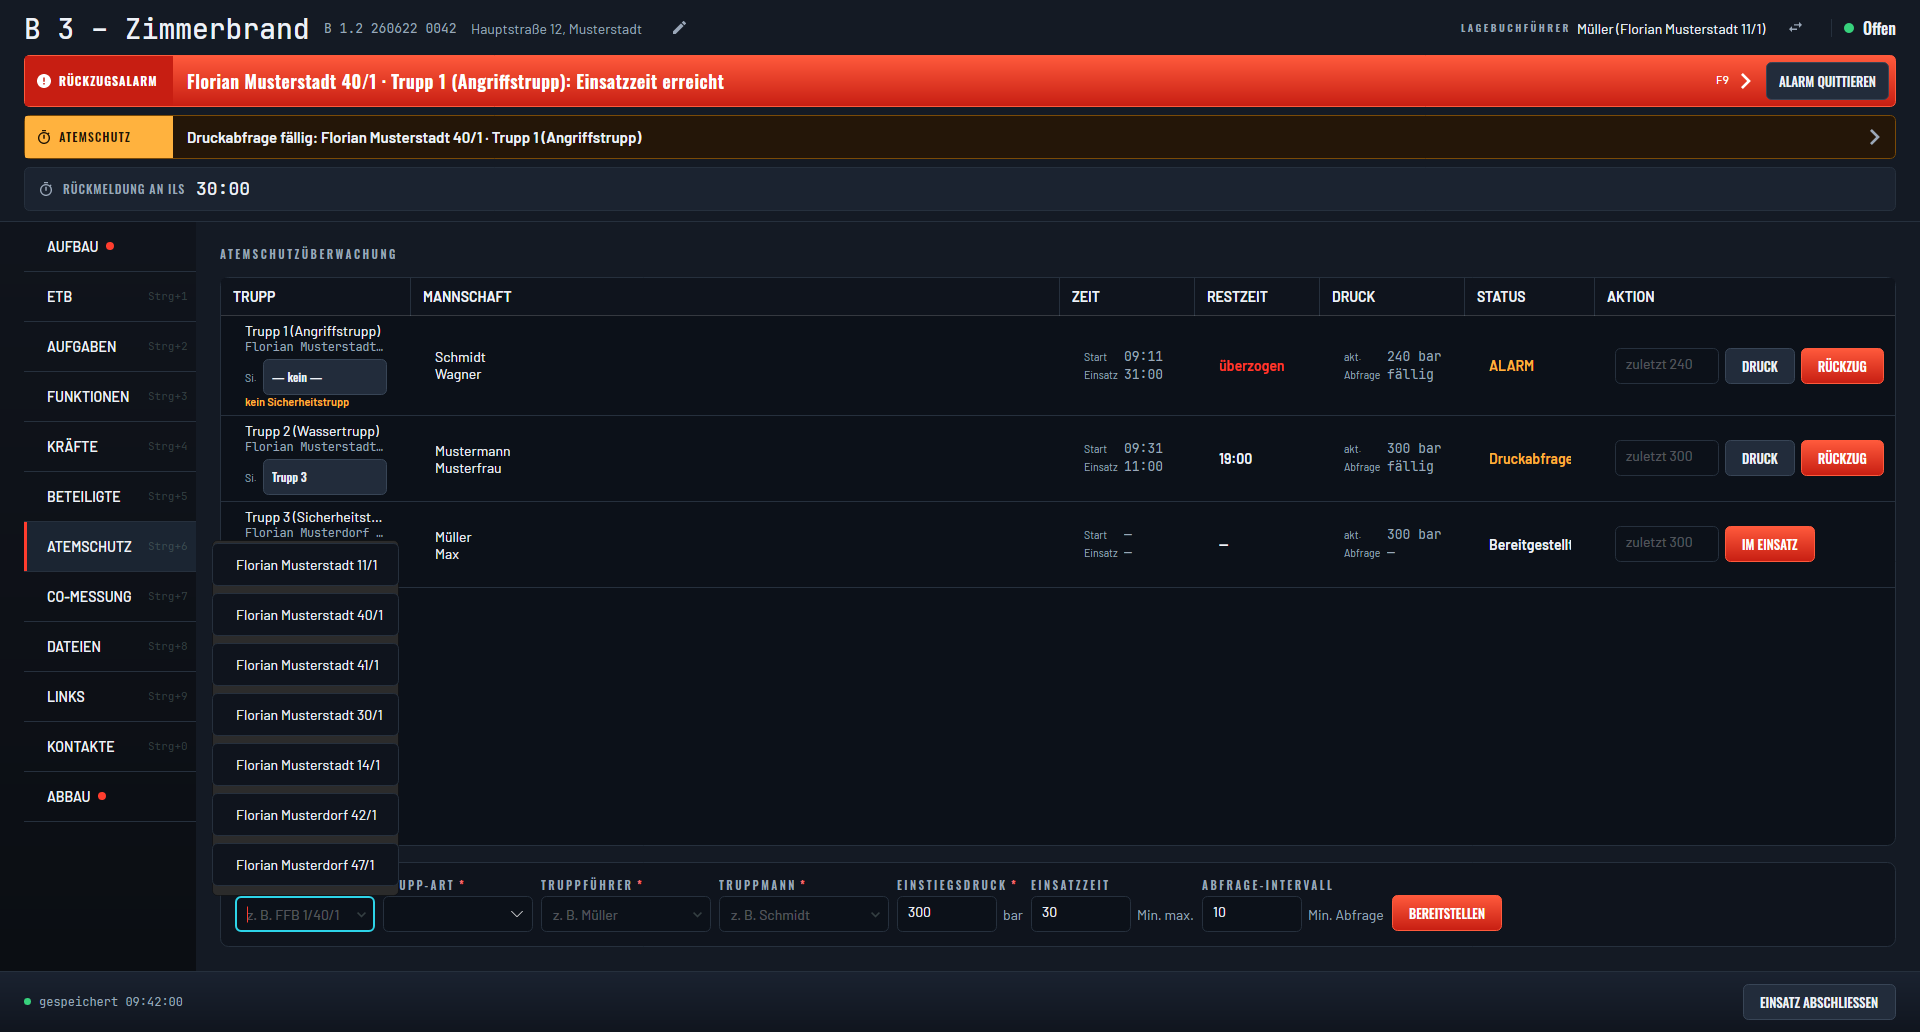
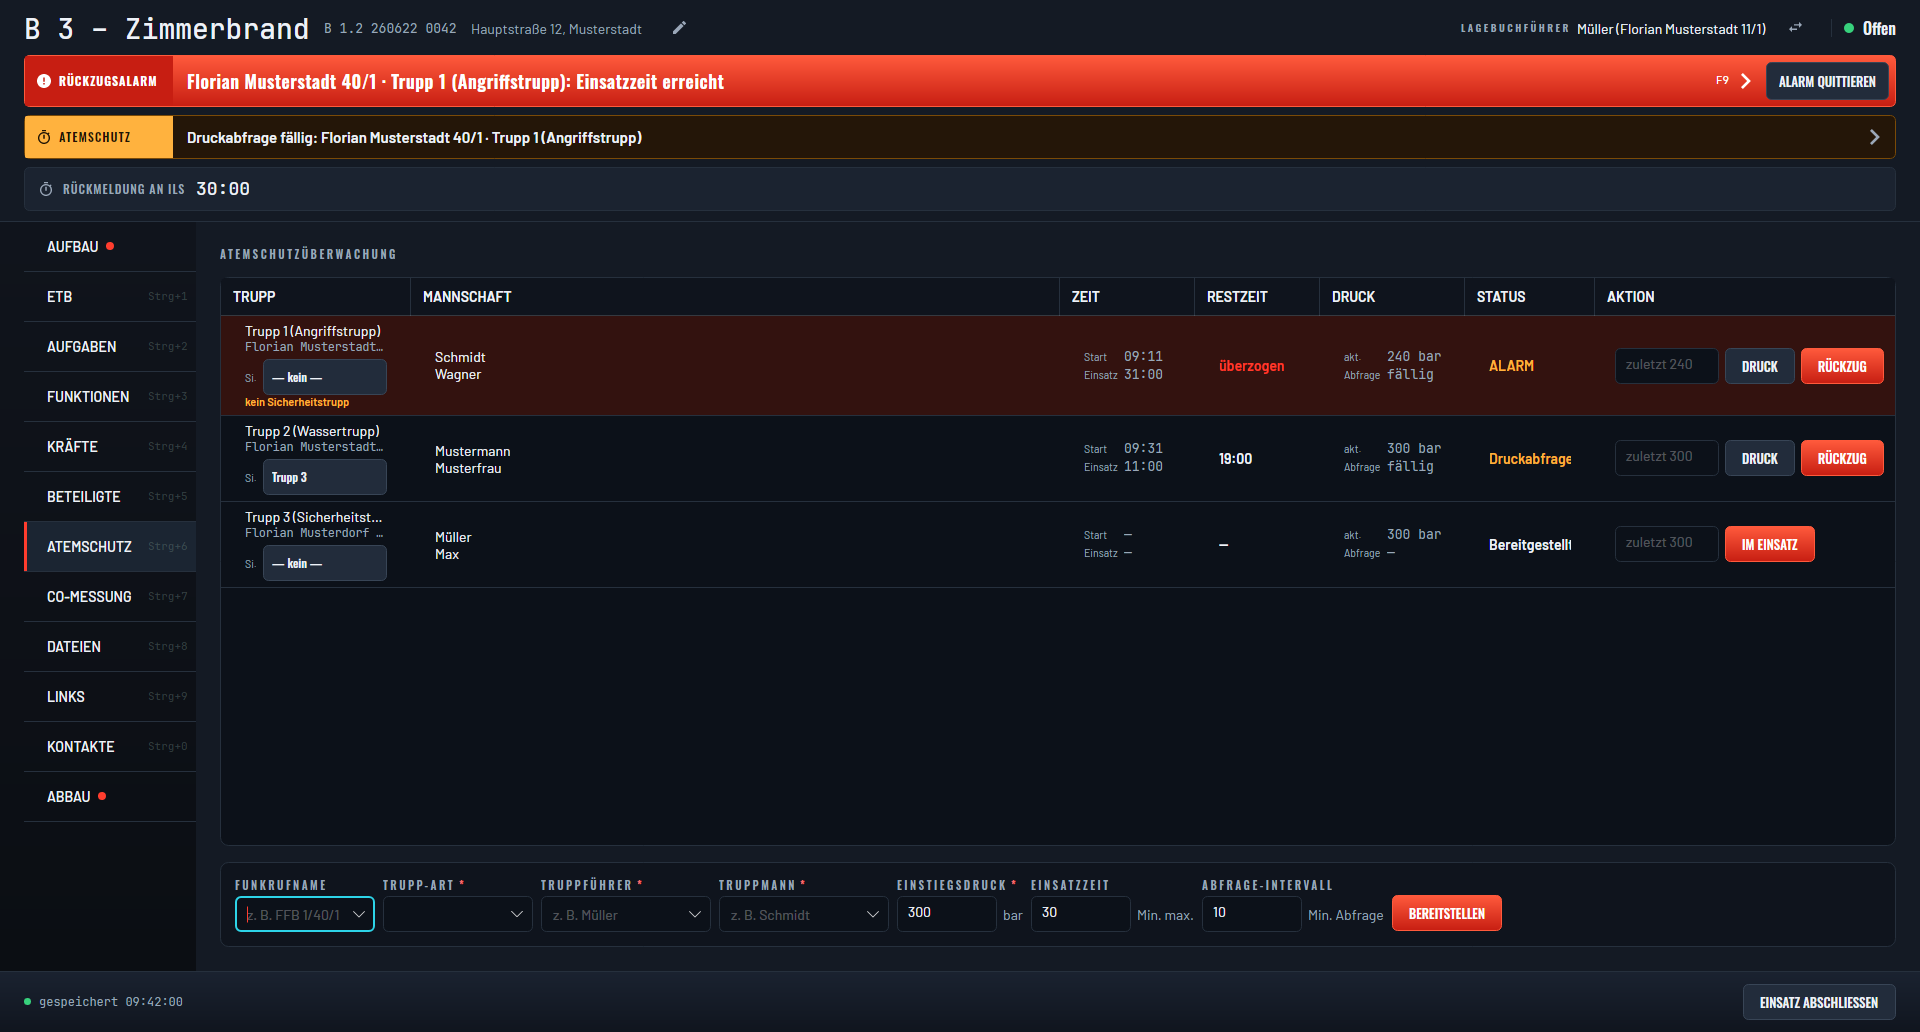
chore: prepare release 0.9.0
Fold the 39 changelog.d fragments into the 0.9.0 section with a summary
and link references, mark v0.9 released in ROADMAP (recording #598/#599
as declined and #384 as carried over to v0.11), and re-render the
Atemschutz screenshot and the demo GIF, which predated the alarm row
colouring (#669) and the closed suggestion list (#681).

The sync protocol stays at 7: no SyncCommand, IncidentSnapshot or
/masterdata wire change since v0.8.1.

Changed region(s): [[0.0938, 0.2791, 1.0, 0.4031], [0.0938, 0.5271, 0.2188, 0.8682]]

diff --git a/CHANGELOG.md b/CHANGELOG.md
@@ -16,6 +16,72 @@ cut — see [CONTRIBUTING.md](CONTRIBUTING.md). For the commits themselves, see 
 
 <!-- towncrier release notes start -->
 
+## [0.9.0] - 2026-10-20
+
+Security and trust. Attachments now stay inside their limits at every step: Android opens and
+shares only checked copies in the app's private temp folder, refuses an oversized pick or
+Stammdaten import while it is being copied, and a joined device deletes the files it pulled
+from the host when it leaves. A crash leaves a small report without personal data that the
+Startseite offers on the next start, and failures in sharing, export and the Dateien tab now
+say in German what went wrong. CI restores every dependency against pinned hashes. Alongside
+that come the findings of the latest Übung: Atemschutz buttons that ignore a double-click, a
+Rückzugsalarm that shows it was acknowledged, a due Aufgabe that keeps reminding, Stammdaten
+and module lists that no longer freeze on long rosters, and a command bar that fits a phone
+in landscape. The sync protocol is unchanged at 7, so 0.9.0 and 0.8.x devices share an
+Einsatz.
+
+### Added
+
+- [#631](https://github.com/CodeForFire/lagebuch/pull/631) - Über gains a "Ton testen" button that plays the Rückzugsalarm once and says plainly when this device cannot play any sound, and the Linux package now depends on alsa-utils instead of only recommending it (#603).
+- [#635](https://github.com/CodeForFire/lagebuch/pull/635) - A crash now leaves a small report holding only the app version, time, OS and each exception's type and stack trace, never its message, and the next start points to it on the Startseite (#300).
+
+### Changed
+
+- [#606](https://github.com/CodeForFire/lagebuch/pull/606) - The incident file writer was restructured to clear a static-analysis finding, with no change to the saved file.
+- [#608](https://github.com/CodeForFire/lagebuch/pull/608) - The 25 MB attachment limit and its error message are now defined once, so a file over the limit reads the same whether it was added from disk or over the sync connection (#343).
+- [#610](https://github.com/CodeForFire/lagebuch/pull/610) - The CO-Messprotokoll editor records the Schlüssel as Vorhanden, Keiner or Unbekannt, so a Wohnung marked by mistake can be set back to unknown; the PDF and the incident file are unchanged.
+- [#628](https://github.com/CodeForFire/lagebuch/pull/628) - Stopping sharing now asks first, because it disconnects every joined device and the ✕ that triggers it is easy to hit by mistake (#604).
+- [#661](https://github.com/CodeForFire/lagebuch/pull/661) - Atemschutz: after ALARM QUITTIEREN the Rückzugsalarm banner now shows that the alarm is acknowledged — the button turns into a disabled "QUITTIERT" and the glow goes — until another Trupp trips the alarm again (#654).
+- [#666](https://github.com/CodeForFire/lagebuch/pull/666) - Sharing and PDF export failures now say in German what went wrong and what to do — port in use, no network, no write access, file still open, disk full — instead of showing the raw exception text, and the status line wraps so the reason is readable on a tablet without hover (#655).
+- [#667](https://github.com/CodeForFire/lagebuch/pull/667) - Esc or ABBRECHEN in the CO-Messprotokoll reading editor and in the Einsatzdaten dialog now asks "Änderungen verwerfen?" before throwing away typed input, with focus on ABBRECHEN, while an untouched editor still closes straight away (#652).
+- [#675](https://github.com/CodeForFire/lagebuch/pull/675) - An alarming Atemschutz Trupp now colours its whole grid row, and on a phone its whole card, in the signal hue, including while it is selected, instead of only its RESTZEIT and STATUS text (#669).
+- [#676](https://github.com/CodeForFire/lagebuch/pull/676) - A due Aufgabe now repeats its cue every minute until it is ERLEDIGT or put off with +5 MIN, instead of sounding once and never again, and several overdue Aufgaben share one cue (#659).
+- [#679](https://github.com/CodeForFire/lagebuch/pull/679) - The task dialog now says Aufgabe like the rest of the app, and the Atemschutz short labels Si., akt. and Abfrage and the Rückzugsdruck setting explain themselves in tooltips (#605).
+- [#681](https://github.com/CodeForFire/lagebuch/pull/681) - Suggestion fields such as the ETB's VON now look and open like the dropdowns in KRÄFTE: switching to ETB, FUNKTIONEN or ATEMSCHUTZ no longer drops a list over the screen, which opens on a click, on typing or with the down arrow instead.
+- [#687](https://github.com/CodeForFire/lagebuch/pull/687) - The Stammdaten editor builds only the Fahrzeuge and Personal rows on screen, so a long roster opens without a pause, while Tab, Shift+Tab and + HINZUFÜGEN still reach every row.
+
+### Fixed
+
+- [#609](https://github.com/CodeForFire/lagebuch/pull/609) - On macOS and Linux, a voice alarm whose audio player hangs is now stopped after its time runs out instead of holding a thread until the app exits (#296).
+- [#622](https://github.com/CodeForFire/lagebuch/pull/622) - The Bericht's Gesamtstärke now counts Zugführer separately, in the same Zugführer/Führungskraft/Mannschaft/Gesamt notation as each unit's row and the Kräfte view, instead of leaving them out and adding them to Mannschaft (#621).
+- [#624](https://github.com/CodeForFire/lagebuch/pull/624) - Atemschutz: a double-click on RÜCKZUG no longer also triggers ABGENOMMEN, which used to end the Trupp's monitoring in the same gesture (#601).
+- [#632](https://github.com/CodeForFire/lagebuch/pull/632) - Atemschutz: a double-click on IM EINSATZ no longer also records an empty Druck or calls RÜCKZUG, because every Atemschutz action button now ignores the second press of a double-click or double-tap (#630).
+- [#633](https://github.com/CodeForFire/lagebuch/pull/633) - Failures in the Dateien tab now say in German what failed before the cause, and a joined device that sends an unknown id gets one fixed German reason back instead of the host's exception text (#602).
+- [#638](https://github.com/CodeForFire/lagebuch/pull/638) - On Android, the Rückzugsalarm, Druckabfrage, Leitstelle reminder and "Aufgabe fällig" now speak the same voice cues as the desktop on the alarm volume, one after another, instead of staying silent, and "Ton testen" reports whether a cue actually played (#637).
+- [#639](https://github.com/CodeForFire/lagebuch/pull/639) - On Android the crash notice on the Startseite now offers the report through the share sheet (TEILEN) instead of naming a path in the app's own storage that no file manager can reach (#636).
+- [#649](https://github.com/CodeForFire/lagebuch/pull/649) - The command bar no longer runs off the right edge between 640 and 1017 dp, so NEUER EINSATZ and ÜBER can be reached on a phone in landscape, a tablet in portrait and a narrow window: the bar now drops its descriptor first and folds into MEHR below 880 dp (#648).
+- [#660](https://github.com/CodeForFire/lagebuch/pull/660) - ERLEDIGT in the "Aufgabe fällig" bar now offers the same undo notice as ticking the task off in the grid, so completing the wrong task by a reflex click can be taken back (#653).
+- [#662](https://github.com/CodeForFire/lagebuch/pull/662) - Kräfte: closing the Stärke-correction flyout without ÜBERNEHMEN now puts the recorded Stärke back into the row, instead of leaving typed values on screen that the header total and the Einsatz never had (#651).
+- [#663](https://github.com/CodeForFire/lagebuch/pull/663) - Führung & Funktionen: correcting a picked name now replaces the phone and Funkrufname the Stammdaten filled in for the previous person, or clears them if the new name matches nobody, while values typed by hand are kept (#656).
+- [#664](https://github.com/CodeForFire/lagebuch/pull/664) - Stammdaten: a personnel row with a Vorname, phone or other field but no Nachname now blocks SPEICHERN and is named in the banner ("Person ohne Nachname: Zeile 4"), instead of being dropped without a word on save (#650).
+- [#671](https://github.com/CodeForFire/lagebuch/pull/671) - A failed attempt to share an incident in the network, for example because another window already holds the port, no longer leaves a half-started host attached to the incident, so a later successful share counts every change once (#665).
+- [#672](https://github.com/CodeForFire/lagebuch/pull/672) - On a phone, the card of a Funktion that is still running no longer shows "BIS —", so it no longer reads as ended (#668).
+- [#673](https://github.com/CodeForFire/lagebuch/pull/673) - A timer typed for an Aufgabe now survives a change of Dringlichkeit, and the next Aufgabe starts from the Dringlichkeit default again instead of silently reusing it (#658).
+- [#674](https://github.com/CodeForFire/lagebuch/pull/674) - Screen readers now hear each CO-Messprotokoll unit tile by its unit and state and each Checkliste tab with whether it is vollständig or unvollständig, and the remove confirm names what it removes ("Kraft entfernen?", "Beteiligten entfernen?", "Datei entfernen?") instead of "Bestätigen" (#670).
+- [#677](https://github.com/CodeForFire/lagebuch/pull/677) - The Stammdaten editor now shows every duplicate Funkrufname in its banner and says why IMPORTIEREN cannot run while changes are unsaved, instead of leaving the buttons grey without a reason (#657).
+- [#678](https://github.com/CodeForFire/lagebuch/pull/678) - The Kräfte view now spells out ZF, GF and AGT and the Zugführer/Gruppenführer/Mannschaft/Gesamt notation in tooltips, names each Stärke field for screen readers, and labels GF as Gruppenführer instead of Führungskräfte in the Stärke correction (#605).
+- [#684](https://github.com/CodeForFire/lagebuch/pull/684) - Clearing the selected Fahrzeug in Kräfte now also empties the Wache, Funkrufname and Stärke it had filled in, instead of leaving the old vehicle's values behind.
+- [#686](https://github.com/CodeForFire/lagebuch/pull/686) - Leaving a long Stammdaten category such as Fahrzeuge or Personal no longer freezes the editor for a second or more.
+- [#688](https://github.com/CodeForFire/lagebuch/pull/688) - Leaving a module that holds many entries — Beteiligte, Dateien or Kontakte on the desktop, or any card list in the phone layout — no longer freezes the app for seconds, and every module switch is about 100 ms faster (#685).
+
+### Security
+
+- [#607](https://github.com/CodeForFire/lagebuch/pull/607) - CI now restores NuGet packages against committed lock files with content hashes and installs its Python tooling with pinned hashes, so a tampered or substituted dependency fails the build.
+- [#611](https://github.com/CodeForFire/lagebuch/pull/611) - On Android, ÖFFNEN and sharing now refuse an attachment copy that is not an allow-listed regular file inside the app's private temp folder, opened copies older than a day are removed at startup, and on desktop Linux and macOS that temp folder is now readable by its owner only (#289).
+- [#625](https://github.com/CodeForFire/lagebuch/pull/625) - A joined device now deletes the attachments it pulled from the host when it leaves the incident, and clears any a crashed run left behind on the next start (#382).
+- [#627](https://github.com/CodeForFire/lagebuch/pull/627) - On Android, a picked attachment over the 25 MB limit and a Stammdaten import over the new 5 MB limit are now refused while they are being copied rather than after they are on the device, and the app no longer keeps a copy of every file ever attached (#407).
+
+
 ## [0.8.1] - 2026-10-07
 
 A patch release for Windows: the 0.8.0 installer was a 32-bit package and installed into
@@ -484,7 +550,8 @@ First release (Windows + Linux prerelease).
 - AutoCompleteBox border matched to app inputs (#41)
 - ILS countdown made the visual focus of the reminder bar (#44)
 
-[Unreleased]: https://github.com/CodeForFire/lagebuch/compare/v0.8.1...HEAD
+[Unreleased]: https://github.com/CodeForFire/lagebuch/compare/v0.9.0...HEAD
+[0.9.0]: https://github.com/CodeForFire/lagebuch/compare/v0.8.1...v0.9.0
 [0.8.1]: https://github.com/CodeForFire/lagebuch/compare/v0.8.0...v0.8.1
 [0.8.0]: https://github.com/CodeForFire/lagebuch/compare/v0.7.1...v0.8.0
 [0.7.1]: https://github.com/CodeForFire/lagebuch/compare/v0.7.0...v0.7.1

diff --git a/ROADMAP.md b/ROADMAP.md
@@ -11,7 +11,7 @@ The one hard date below is not ours to move.
 
 ## Where we are
 
-Version 0.8.1, with a release every one to two weeks. The app is in real use,
+Version 0.9.0, with a release every one to two weeks. The app is in real use,
 but the `.fwincident` file format can still change between versions. That caveat
 is what 1.0 removes.
 
@@ -85,29 +85,35 @@ Issues: #545, #537, #541, #538, #539, #540, #466, #542, #543, #544, #246
 32-bit package and installed into `Program Files (x86)`; it is now a real x64
 package (#574).
 
-## v0.9 — Security and trust
+## v0.9 — Security and trust — **released**
 
-Two halves. Harden the parts that face the network and the file system: the
-Android attachment path and the attachment size cap that today is enforced on
-upload only. (The sync host's pairing and the broadcasts that could swallow a
-rejected command were planned here and shipped early, in 0.7.) The photos a joined device pulls from
-the host belong here too — they are now capped at 500 MB, but nothing deletes
-them when the Einsatz ends, and nothing strips the GPS coordinates out of them.
+Shipped 2026-10-20. The parts that face the network and the file system are
+hardened: Android opens and shares attachments only through the same gate as the
+desktop and checks a picked file's size while copying it rather than afterwards,
+the 25 MB cap holds on both ends of the sync, and a joined device deletes the
+attachments it pulled from the host when it leaves. (The sync host's pairing and
+the broadcasts that could swallow a rejected command were planned here and
+shipped early, in 0.7.) Stripping the GPS coordinates out of photos (#384) did
+not make it and stays open.
 
-Then make failures visible. File logging and global unhandled-exception handlers
-mean that when something goes wrong on an ELW laptop at two in the morning, there
-is something to send us afterwards.
+Failures are visible now. A crash leaves a small report — version, OS and stack
+traces, never an exception's message — that the Startseite points to on the next start, a
+hung audio player no longer leaks a thread, and sharing, export and the Dateien
+tab say in German what went wrong. The latest Übung's findings landed alongside,
+from Atemschutz double-click guards to Stammdaten and module lists that no longer
+freeze on a long roster. The sync protocol stays at 7.
 
-Issues: #289, #296, #300, #382, #384, #406, #407
+Two further ideas were considered here and declined: sharing on one chosen
+network instead of every interface (#599), and sealing a closed Einsatz with a
+hash printed in the Bericht (#598). Both add steps at an Einsatz against an
+unlikely attacker on the ELW's own network, and the exported PDF already is the
+record. The first connection to a host stays Trust-on-First-Use on purpose;
+SECURITY.md explains why a mandatory Kennung comparison would cost more than it
+protects.
 
-Then the part someone checking the app can see. A host shares on the one network
-the Lagebuchführer picks rather than on every interface. And closing an Einsatz
-seals it: a hash over the content and every attachment, printed in the Bericht,
-so a printout and a file can be checked against each other years later. The first
-connection to a host stays Trust-on-First-Use on purpose; SECURITY.md explains
-why a mandatory Kennung comparison would cost more than it protects.
+See [CHANGELOG.md](CHANGELOG.md#090---2026-10-20) for the full list.
 
-Issues: #598, #599
+Issues: #289, #296, #300, #382, #406, #407
 
 The OpenSSF Scorecard badge in the README reports two checks as weak, and both
 readings are correct. Branch-Protection and Code-Review score low because `main`
